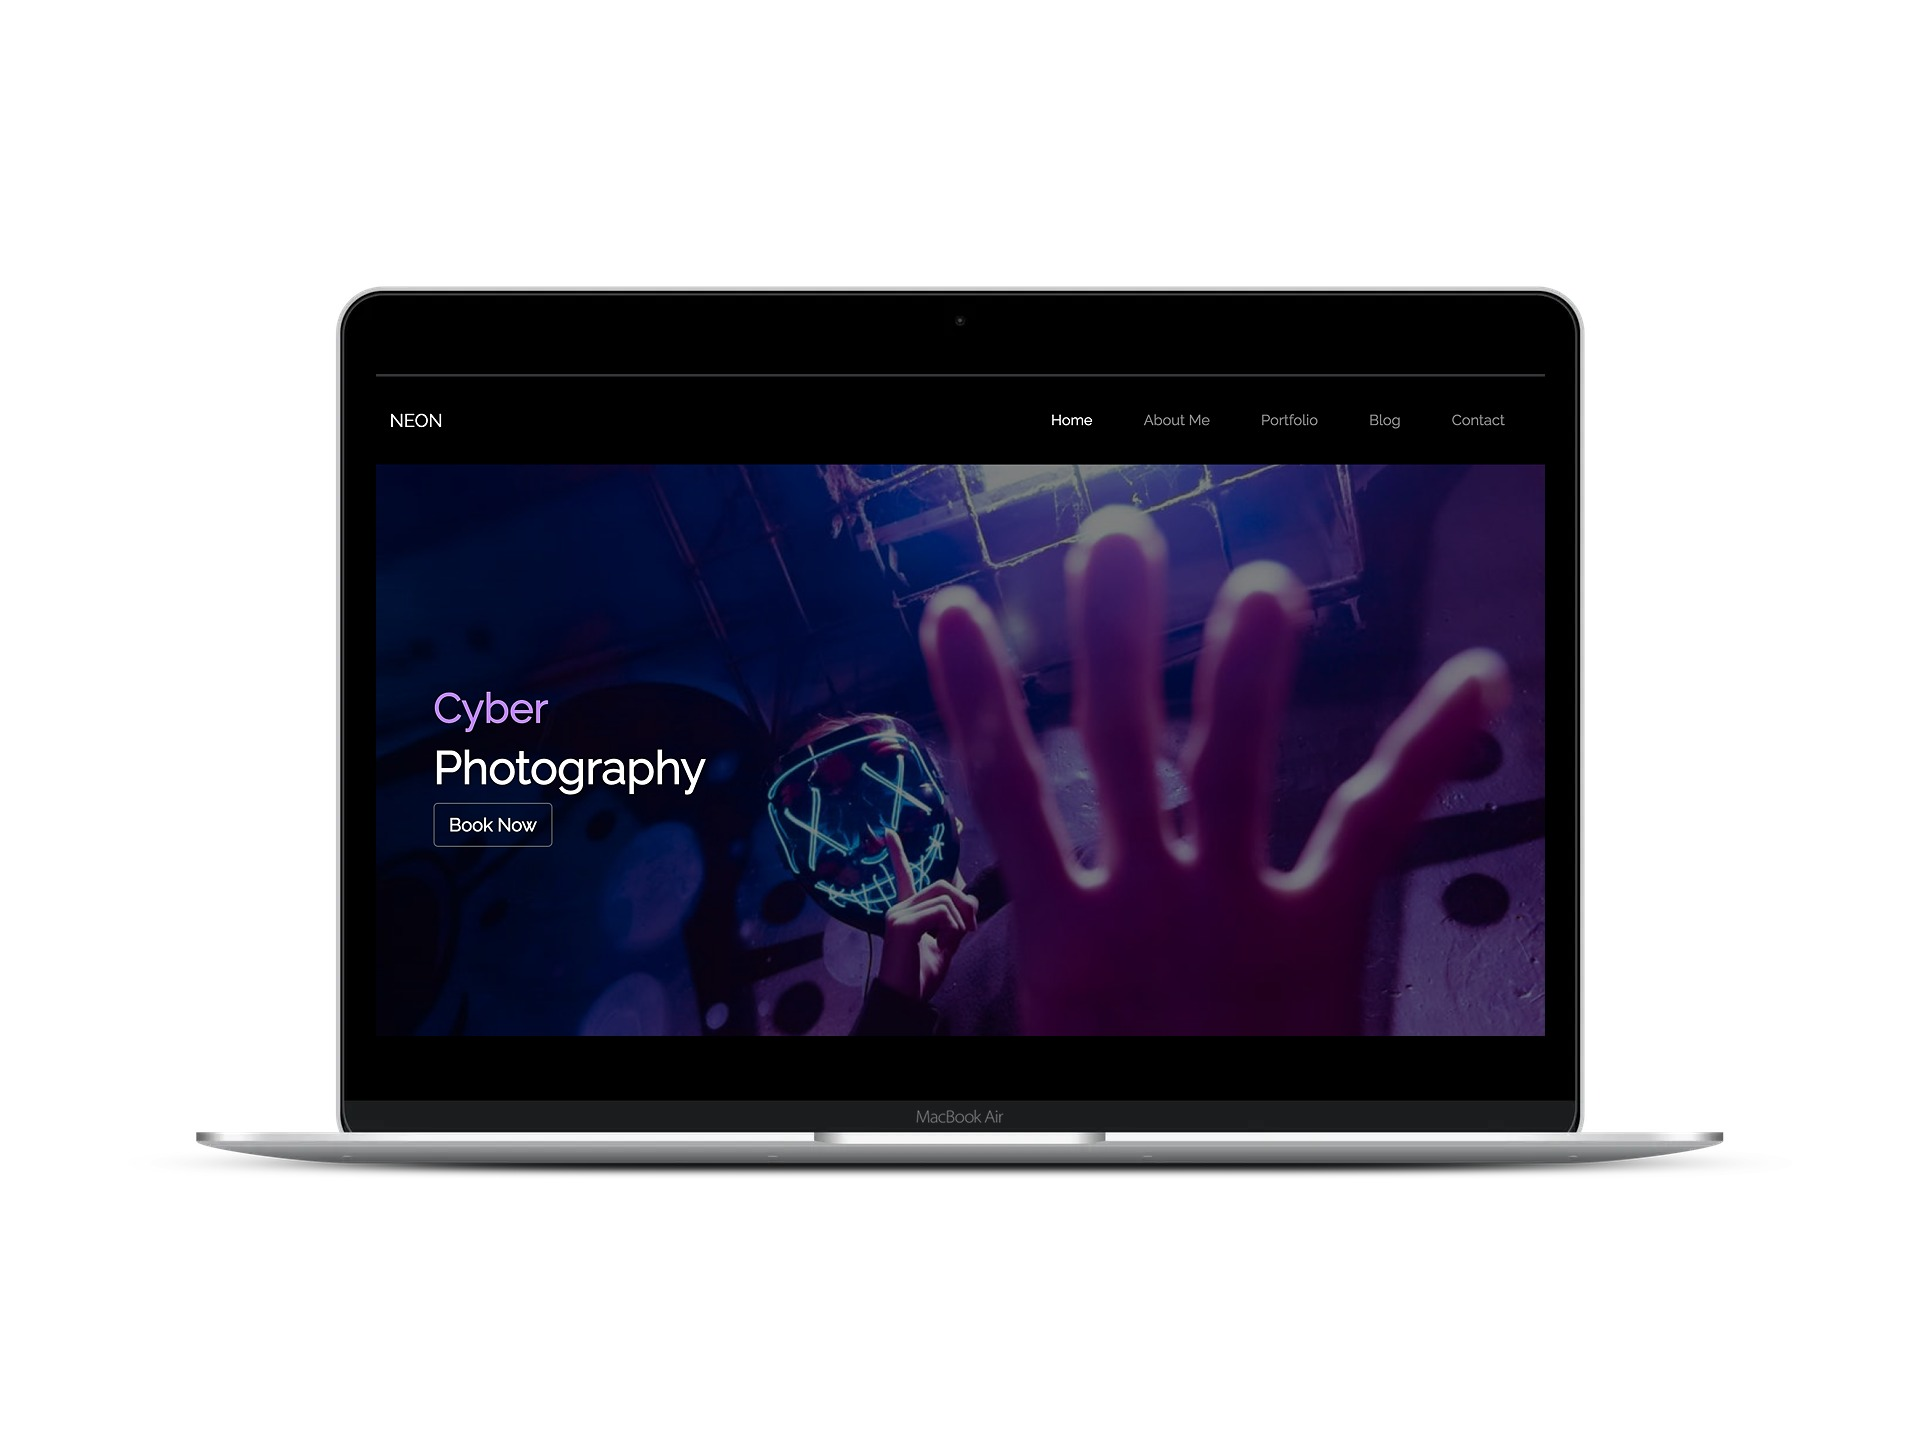
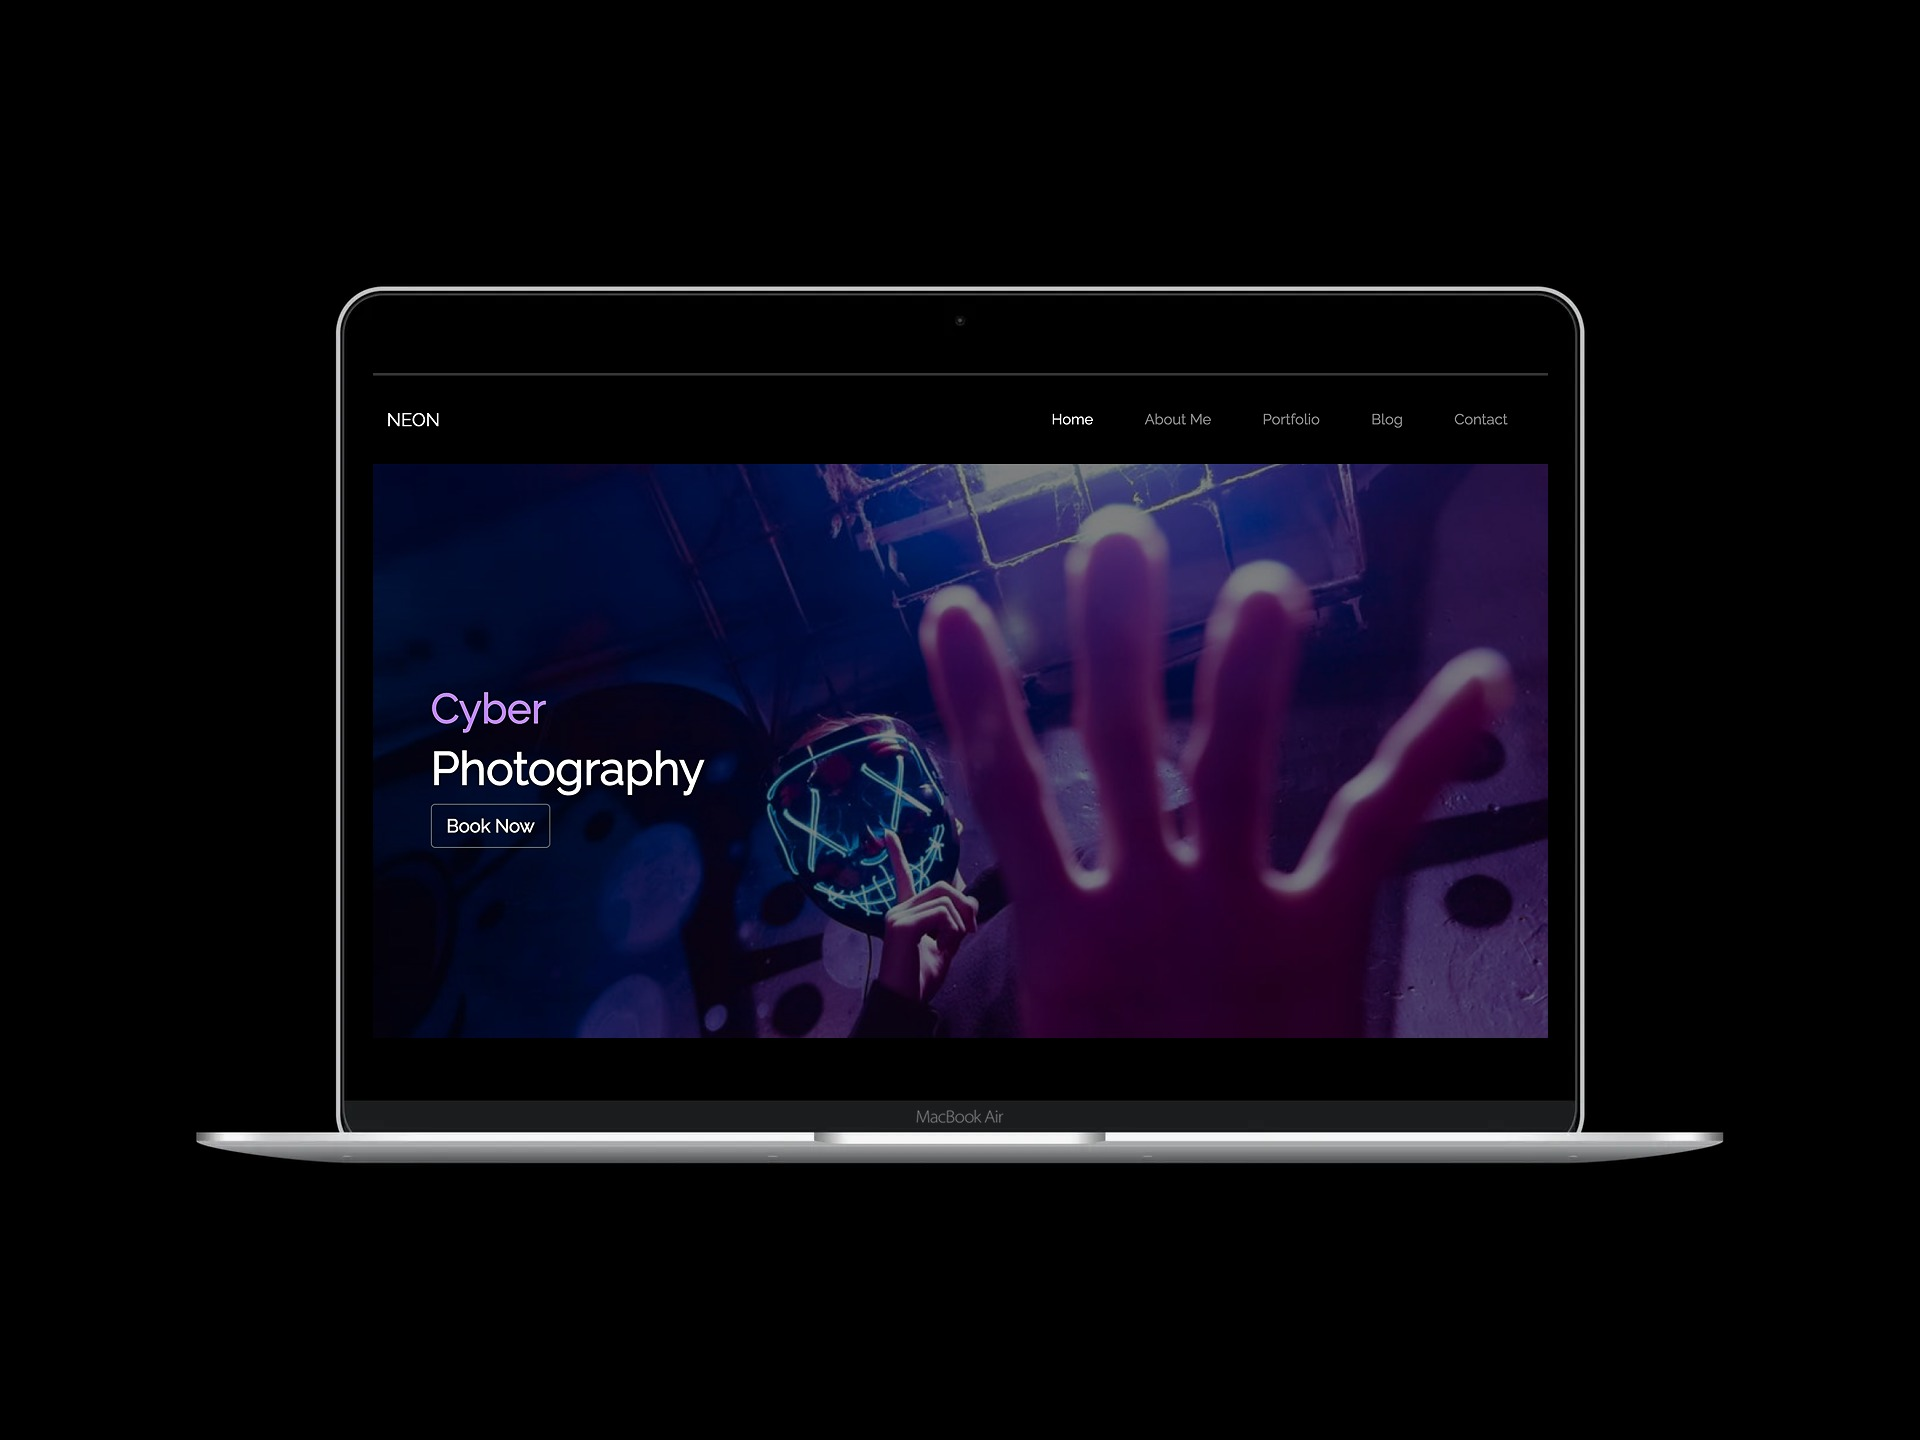
changed background color

diff --git a/projects/index.html b/projects/index.html
@@ -40,7 +40,7 @@
     <title>Portfolio site</title>
   </head>
 
-  <body>
+  <body class = "dark">
 
     <!-- Navigation -->
     <nav class="navbar navbar-expand-md navbar-light sticky-top">
@@ -70,7 +70,7 @@
       </div>
     </nav><br>
 
-    <section>
+    <section class="dark">
       <div class="container-fluid container">
         <div class="row">
           <div class="col-md-6 col-sm-12 col-xs-12">
@@ -156,7 +156,7 @@
       </div>
     </section>
 
-    <section class="project">
+    <section class="project dark">
       <div>
         <div class="row-flex container-fluid">
           <div>
@@ -180,9 +180,9 @@
           </div>
         </div>
       </div>
-    </section><hr>
+    </section>
 
-     <section class="project">
+     <section class="project dark">
       <div>
         <div class="row-flex container-fluid">
           <div>
@@ -202,13 +202,13 @@
             </div>
           </div>
           <div class="project-img">
-            <img src="../images/exchanger.jpg" alt="" />
+            <img src="../images/exchange-rate.jpg" alt="" />
           </div>
         </div>
       </div>
-    </section><hr>
+    </section>
 
-    <section>
+    <section class="dark">
       <div class="container container-fluid">
         <div class="row">
           <div class="col-xs-12 col-sm-12 col-md-6 col-lg-6">
@@ -227,14 +227,14 @@
           </div>
           <div class="col-xs-12 col-sm-12 col-md-6 col-lg-6">
             <div class="project-img">
-              <img src="../images/electrolyte.jpg" alt="" />
+              <img src="../images/electrolytes.jpg" alt="" />
             </div>
           </div>
         </div>
       </div>
-    </section><hr>
+    </section>
 
-    <section>
+    <section class="dark">
       <div class="container container-fluid">
         <div class="row">
           <div class="col-xs-12 col-sm-12 col-md-6 col-lg-6">
@@ -254,7 +254,7 @@
           </div>
           <div class="col-xs-12 col-sm-12 col-md-6 col-lg-6">
             <div class="project-img">
-              <img src="../images/fluid.jpg" alt="" />
+              <img src="../images/fluids.jpg" alt="" />
             </div>
           </div>
         </div>

diff --git a/projects/style.css b/projects/style.css
@@ -7,7 +7,6 @@ body {
 .navbar {
   color: white !important;
   background-color: teal;
- 
   
 }
 
